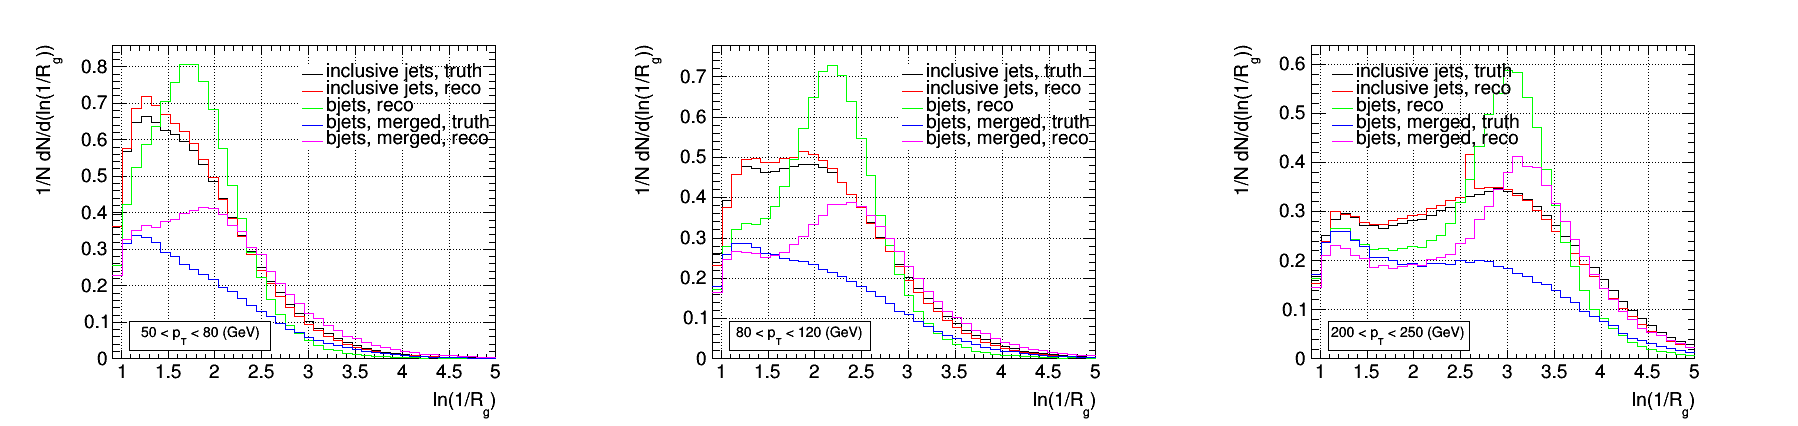
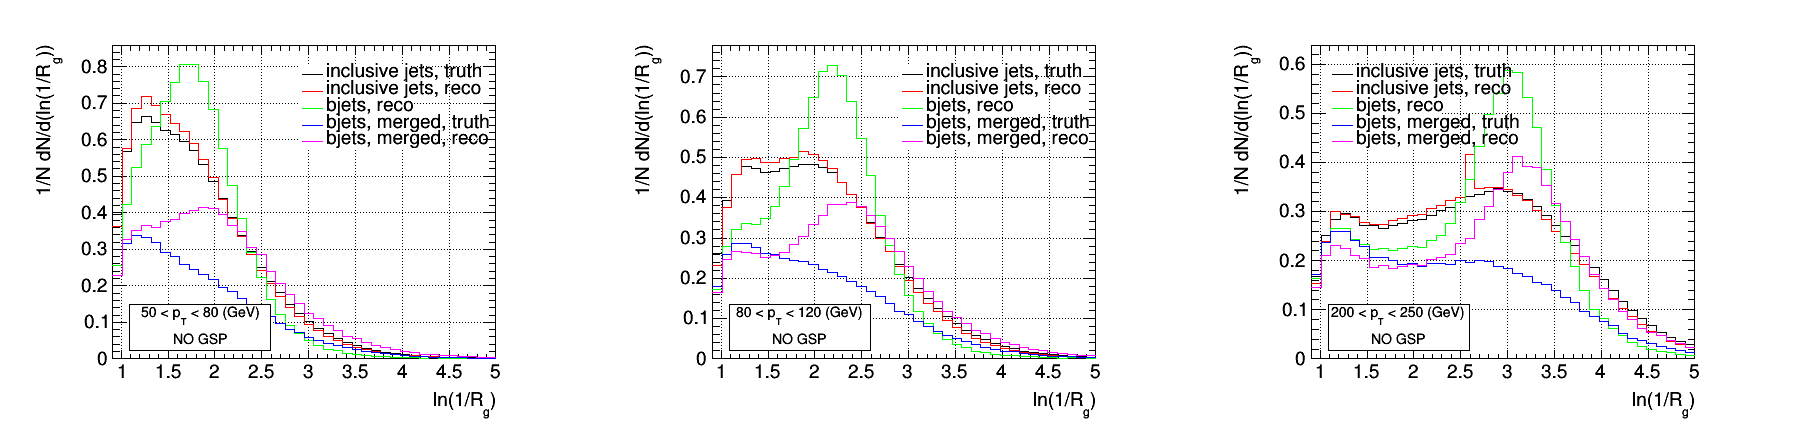
add no gsp information on plot

Changed region(s): [[0.4049, 0.7019, 0.4983, 0.8239], [0.0623, 0.7019, 0.1557, 0.8239], [0.7164, 0.7019, 0.8098, 0.8239]]

diff --git a/myMacros/pt2dscan/projections1d/draw_projections1d.C b/myMacros/pt2dscan/projections1d/draw_projections1d.C
@@ -131,13 +131,16 @@ void draw_projections1d()
 
         leg->Draw();
 
-		TPaveText *info = new TPaveText(0.2, 0.17, 0.45, 0.24, "ndc");
+		TPaveText *info = new TPaveText(0.2, 0.17, 0.45, 0.28, "ndc");
 		info->SetBorderSize(1);
 		info->SetFillColor(0);
 		info->SetTextSize(15);
 		info->AddText(Form("%.0f < p_{T} < %0.f (GeV)", ptmin, ptmax));
+		info->AddText("NO GSP");
 
 		info->Draw();
+
+
     }
     crg->Draw();
 
